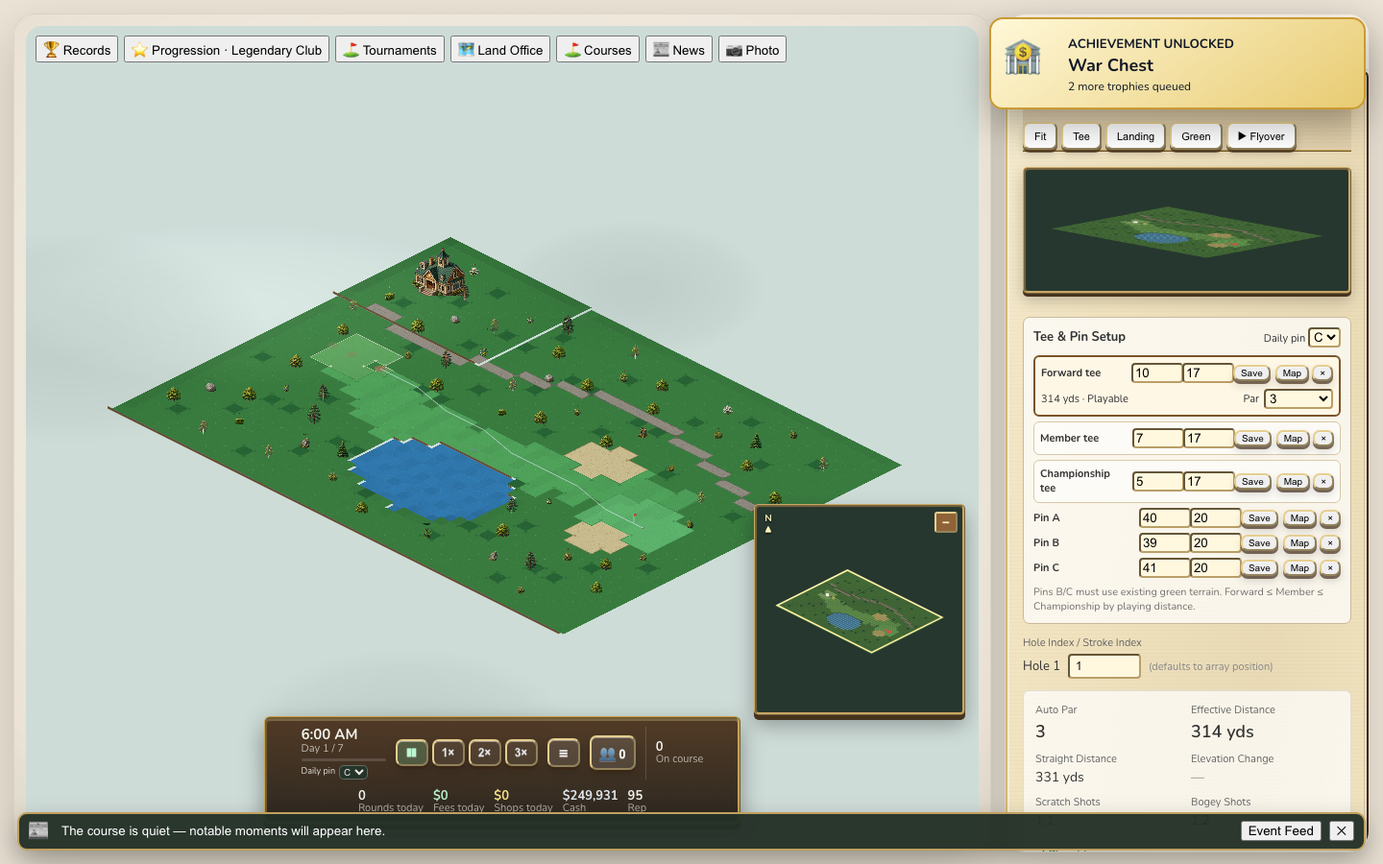
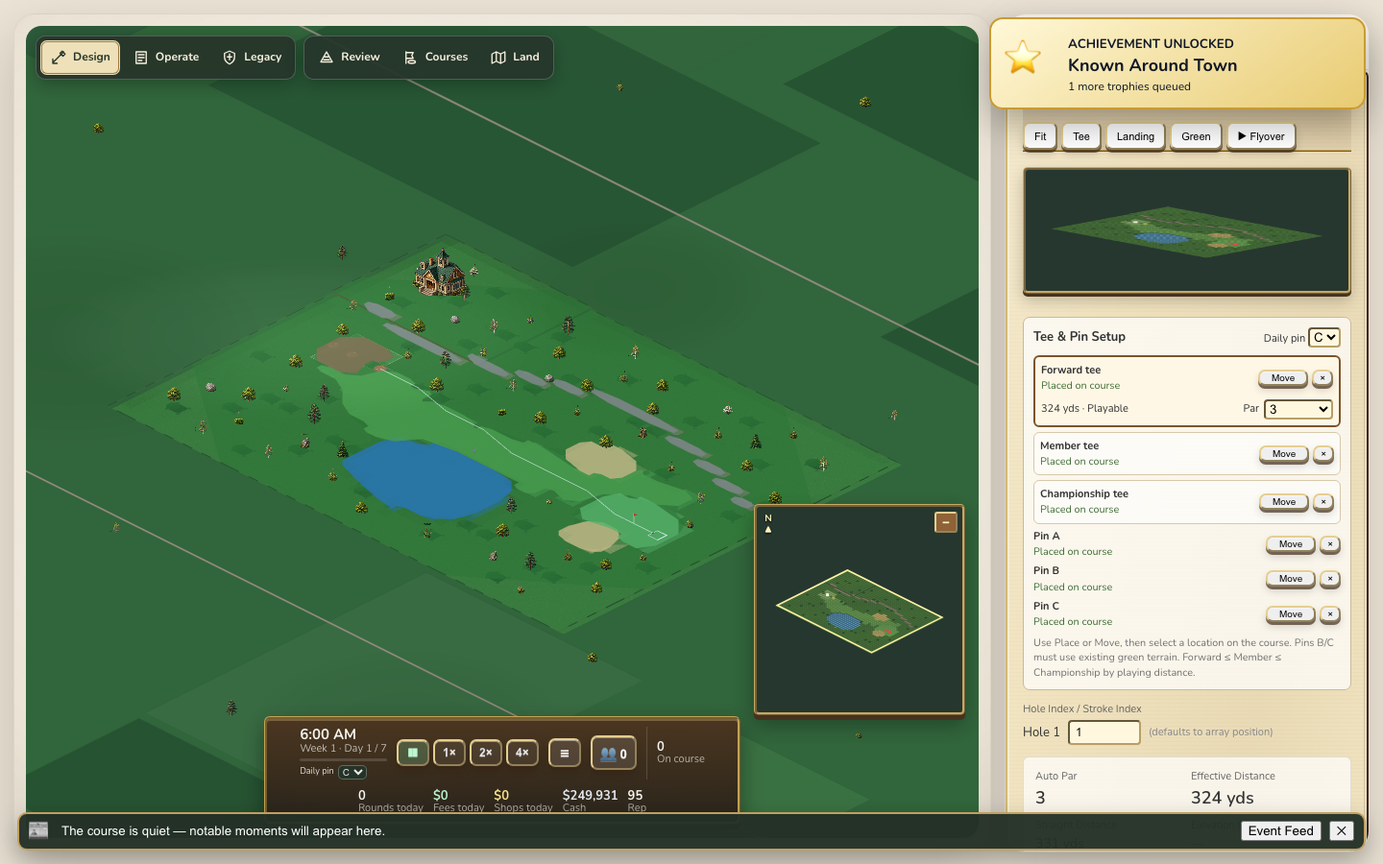
Replace coordinate tee and pin placement

diff --git a/simgolf-lite/src/App.tsx b/simgolf-lite/src/App.tsx
@@ -81,7 +81,7 @@ import { PauseOverlay } from "./ui/appShell/PauseOverlay";
 import { LoadingCard } from "./ui/appShell/LoadingCard";
 import { SettingsModal } from "./ui/SettingsModal";
 import { LIVE, type SpeedName } from "./game/live/liveConfig";
-import { courseForCourseSetup, getParSetting, getTeeBox, TEE_SETS, validateHoleCourseSetup, withNormalizedHoleSetup } from "./game/models/courseSetup";
+import { courseForCourseSetup, getParSetting, getPinPosition, getTeeBox, TEE_SETS, validateHoleCourseSetup, withNormalizedHoleSetup } from "./game/models/courseSetup";
 import { eventMatchesBinding } from "./accessibility/keybindings";
 import { T } from "./i18n/T";
 import { ambientMixFor, distanceVolume, musicContextFor } from "./audio/environment";
@@ -2231,7 +2231,18 @@ export default function App() {
           editingLocked: playerRoundLocksEditing,
         } : null,
       },
-      editor: { mode: editorMode, selectedTerrain: selected, selectedDecoration: decorationKind, decorationRotation, decorationSpan, decorationAction, activeHole: activeHoleIndex + 1, selectedTeeSet, teePlacementPending: pendingTeePlacement ? { teeSet: pendingTeePlacement.teeSet, point: pendingTeePlacement.point, netCost: pendingTeePlacement.netCost } : null },
+      editor: {
+        mode: editorMode,
+        selectedTerrain: selected,
+        selectedDecoration: decorationKind,
+        decorationRotation,
+        decorationSpan,
+        decorationAction,
+        activeHole: activeHoleIndex + 1,
+        selectedTeeSet,
+        setupPlacement: setupPlacement ? { kind: setupPlacement.kind, key: setupPlacement.key } : null,
+        teePlacementPending: pendingTeePlacement ? { teeSet: pendingTeePlacement.teeSet, point: pendingTeePlacement.point, netCost: pendingTeePlacement.netCost } : null,
+      },
       graphics: { quality: appProfile.graphics.quality, resolvedQuality: resolvedGraphicsQuality, animations: effectiveAnimations, waterAnimation: effectiveAnimations && appProfile.graphics.waterAnimation, treeSway: effectiveAnimations && appProfile.graphics.treeSway },
       retention: { photoMode, recordsOpen: showRetention, achievementsEarned: appProfile.achievements.earned.length, totalRounds: records.totalRounds, aces: records.aces.length, tickerVisible: appProfile.gameplay.tickerVisible },
       tournament: {
@@ -2250,7 +2261,7 @@ export default function App() {
       if (window.render_game_to_text === renderText) delete window.render_game_to_text;
       if (window.advanceTime === live.advanceTime) delete window.advanceTime;
     };
-  }, [activeHoleIndex, activeLayout.id, activeOperatingCourse, activePlayerRound, architectureReport, architectureReview, appProfile.achievements.earned.length, appProfile.gameplay.tickerVisible, appProfile.graphics.quality, appProfile.graphics.treeSway, appProfile.graphics.waterAnimation, audioCameraCenter, course, decorationAction, decorationKind, decorationRotation, decorationSpan, editorMode, effectiveAnimations, flow.base, flow.modal, flow.paused, followSelected, live, minimapView, pendingTeePlacement, pendingWeekReport, photoMode, playerPro, playerRoundLocksEditing, playerShotAim, records, resolvedGraphicsQuality, screen, selected, selectedParcelId, selectedTeeSet, showArchitectureReview, showCampaign, showCourseManager, showLandOffice, showLivingClub, showLiveOverview, showPlayerPro, showProgression, showPropertyManagement, showRetention, showSeasonsLegacy, showTournaments, tutorialProgress?.stepIndex, viewMode, workspace, world]);
+  }, [activeHoleIndex, activeLayout.id, activeOperatingCourse, activePlayerRound, architectureReport, architectureReview, appProfile.achievements.earned.length, appProfile.gameplay.tickerVisible, appProfile.graphics.quality, appProfile.graphics.treeSway, appProfile.graphics.waterAnimation, audioCameraCenter, course, decorationAction, decorationKind, decorationRotation, decorationSpan, editorMode, effectiveAnimations, flow.base, flow.modal, flow.paused, followSelected, live, minimapView, pendingTeePlacement, pendingWeekReport, photoMode, playerPro, playerRoundLocksEditing, playerShotAim, records, resolvedGraphicsQuality, screen, selected, selectedParcelId, selectedTeeSet, setupPlacement, showArchitectureReview, showCampaign, showCourseManager, showLandOffice, showLivingClub, showLiveOverview, showPlayerPro, showProgression, showPropertyManagement, showRetention, showSeasonsLegacy, showTournaments, tutorialProgress?.stepIndex, viewMode, workspace, world]);
 
   useEffect(() => {
     if (import.meta.env.MODE !== "e2e") return;
@@ -2989,16 +3000,17 @@ export default function App() {
     return remove + place;
   }
 
-  function previewTeeBox(teeSet: TeeSet, point: Point) {
+  function previewTeeBox(teeSet: TeeSet, point: Point): boolean {
     const hole = course.holes[activeHoleIndex];
-    if (!hole) return;
+    if (!hole) return false;
     const prospective = withNormalizedHoleSetup({ ...hole, teeBoxes: { ...hole.teeBoxes, [teeSet]: point }, ...(teeSet === "member" ? { tee: point } : {}) });
     const issue = validateHoleCourseSetup(course, prospective).find((entry) => entry.code === "OUT_OF_BOUNDS" || entry.code === "DUPLICATE" || entry.code === "TEE_ORDER");
-    if (issue) { setPaintError(issue.message); return; }
+    if (issue) { setPaintError(issue.message); return false; }
     const netCost = teePlacementCost(activeHoleIndex, teeSet, point);
-    if (!Number.isFinite(netCost)) { setPaintError("Tee location is out of bounds."); return; }
+    if (!Number.isFinite(netCost)) { setPaintError("Tee location is out of bounds."); return false; }
     setPendingTeePlacement({ holeIndex: activeHoleIndex, teeSet, point, netCost });
     setPaintError(null);
+    return true;
   }
 
   function commitTeeBox(holeIndex: number, teeSet: TeeSet, point: Point, netCost: number) {
@@ -3045,16 +3057,17 @@ export default function App() {
     });
   }
 
-  function setPinPosition(pinRotation: PinRotation, point: Point) {
-    if (point.x < 0 || point.y < 0 || point.x >= course.width || point.y >= course.height) { setPaintError("Pin position is out of bounds."); return; }
-    if (course.tiles[point.y * course.width + point.x] !== "green") { setPaintError(`Pin ${pinRotation} must sit on existing green terrain.`); return; }
+  function setPinPosition(pinRotation: PinRotation, point: Point): boolean {
+    if (point.x < 0 || point.y < 0 || point.x >= course.width || point.y >= course.height) { setPaintError("Pin position is out of bounds."); return false; }
+    if (course.tiles[point.y * course.width + point.x] !== "green") { setPaintError(`Pin ${pinRotation} must sit on existing green terrain.`); return false; }
     const hole = course.holes[activeHoleIndex];
-    if (!hole) return;
+    if (!hole) return false;
     const prospective = withNormalizedHoleSetup({ ...hole, pinPositions: { ...hole.pinPositions, [pinRotation]: point }, ...(pinRotation === "A" ? { green: point } : {}) });
     const issue = validateHoleCourseSetup(course, prospective).find((entry) => entry.code === "DUPLICATE");
-    if (issue) { setPaintError(issue.message); return; }
+    if (issue) { setPaintError(issue.message); return false; }
     dispatch({ type: "SET_PIN_POSITION", holeIndex: activeHoleIndex, pinRotation, position: point });
     setPaintError(null);
+    return true;
   }
 
   function handleCanvasClick(x: number, y: number) {
@@ -3072,10 +3085,13 @@ export default function App() {
       return;
     }
     if (setupPlacement) {
-      if (setupPlacement.kind === "tee") previewTeeBox(setupPlacement.key, { x, y });
-      else setPinPosition(setupPlacement.key, { x, y });
-      setSetupPlacement(null);
-      if (setupPlacement.kind === "pin") void audio.playSfx("confirm");
+      const accepted = setupPlacement.kind === "tee"
+        ? previewTeeBox(setupPlacement.key, { x, y })
+        : setPinPosition(setupPlacement.key, { x, y });
+      if (accepted) {
+        setSetupPlacement(null);
+        if (setupPlacement.kind === "pin") void audio.playSfx("confirm");
+      }
       return;
     }
     
@@ -3893,7 +3909,7 @@ export default function App() {
                       enterHoleEditMode(teeSetupPrompt.holeIndex, teeSet);
                       setSetupPlacement({ kind: "tee", key: teeSet });
                       setEditorMode("HOLE_WIZARD");
-                      setPaintError(`Select the ${teeSet} tee location on the course.`);
+                      setPaintError(null);
                       setTeeSetupPrompt(null);
                     }}>{t("courseSetup.offerBuild", { tee: teeSet[0].toUpperCase() + teeSet.slice(1), cost: formatCurrency(Math.max(0, estimate)) })}</button>;
                   })}
@@ -3901,14 +3917,32 @@ export default function App() {
                 </div>
               </div>
             )}
+            {setupPlacement && !pendingTeePlacement && !tutorialProgress && (() => {
+              const hole = course.holes[activeHoleIndex];
+              const existing = setupPlacement.kind === "tee"
+                ? getTeeBox(hole, setupPlacement.key)
+                : getPinPosition(hole, setupPlacement.key);
+              const marker = setupPlacement.kind === "tee"
+                ? `${setupPlacement.key[0].toUpperCase()}${setupPlacement.key.slice(1)} ${t("courseSetup.tee")}`
+                : t("courseSetup.pin", { rotation: setupPlacement.key });
+              const action = t(existing ? "courseSetup.move" : "courseSetup.place");
+              return (
+                <div data-testid="setup-placement-prompt" role="dialog" aria-label={t("courseSetup.placementAria")} className="cc-tycoon-panel" style={{ position: "absolute", zIndex: 150, bottom: 88, left: "50%", transform: "translateX(-50%)", width: 320, padding: 14 }}>
+                  <strong>{t("courseSetup.placementTitle", { action, marker })}</strong>
+                  <p style={{ margin: "6px 0 10px", fontSize: 12 }}>{t("courseSetup.placementHelp")}</p>
+                  {paintError && <div role="alert" style={{ color: "#8b2e1b", fontSize: 12, marginBottom: 8 }}>{paintError}</div>}
+                  <button onClick={() => { setSetupPlacement(null); setPaintError(null); }}>{t("courseSetup.cancelPlacement")}</button>
+                </div>
+              );
+            })()}
             {pendingTeePlacement && !tutorialProgress && (
               <div data-testid="tee-placement-confirm" role="dialog" aria-label={t("courseSetup.confirmAria")} className="cc-tycoon-panel" style={{ position: "absolute", zIndex: 150, bottom: 88, left: "50%", transform: "translateX(-50%)", width: 300, padding: 14 }}>
                 <strong>{t("courseSetup.confirmTitle", { action: t(getTeeBox(course.holes[pendingTeePlacement.holeIndex], pendingTeePlacement.teeSet) ? "courseSetup.actionMove" : "courseSetup.actionErect"), tee: pendingTeePlacement.teeSet })}</strong>
-                <div style={{ margin: "7px 0", fontSize: 12 }}>{pendingTeePlacement.netCost >= 0 ? t("courseSetup.tileCost", { x: pendingTeePlacement.point.x, y: pendingTeePlacement.point.y, cost: formatCurrency(pendingTeePlacement.netCost) }) : t("courseSetup.tileSalvage", { x: pendingTeePlacement.point.x, y: pendingTeePlacement.point.y, value: formatCurrency(-pendingTeePlacement.netCost) })}</div>
+                <div style={{ margin: "7px 0", fontSize: 12 }}>{pendingTeePlacement.netCost >= 0 ? t("courseSetup.placementCost", { cost: formatCurrency(pendingTeePlacement.netCost) }) : t("courseSetup.placementSalvage", { value: formatCurrency(-pendingTeePlacement.netCost) })}</div>
                 {pendingTeePlacement.netCost > world.cash && <div role="alert" style={{ color: "#8b2e1b", fontSize: 12, marginBottom: 7 }}>{t("courseSetup.shortfall", { amount: formatCurrency(pendingTeePlacement.netCost - world.cash) })}</div>}
                 <div style={{ display: "flex", gap: 6 }}>
                   <button disabled={pendingTeePlacement.netCost > world.cash} onClick={() => commitTeeBox(pendingTeePlacement.holeIndex, pendingTeePlacement.teeSet, pendingTeePlacement.point, pendingTeePlacement.netCost)}>{t("courseSetup.confirm")}</button>
-                  <button onClick={() => { setSetupPlacement({ kind: "tee", key: pendingTeePlacement.teeSet }); setPendingTeePlacement(null); setPaintError("Select another tee location on the course."); }}>{t("courseSetup.chooseAnother")}</button>
+                  <button onClick={() => { setSetupPlacement({ kind: "tee", key: pendingTeePlacement.teeSet }); setPendingTeePlacement(null); setPaintError(null); }}>{t("courseSetup.chooseAnother")}</button>
                   <button onClick={() => { setPendingTeePlacement(null); setPaintError(null); }}>{t("courseSetup.cancel")}</button>
                 </div>
               </div>
@@ -4043,13 +4077,11 @@ export default function App() {
                   setSelected={setSelected}
                   obstacleType={obstacleType}
                   setObstacleType={setObstacleType}
-                  onBeginTeePlacement={(teeSet) => { setSetupPlacement({ kind: "tee", key: teeSet }); setEditorMode("HOLE_WIZARD"); setPaintError(`Select the ${teeSet} tee location on the course.`); }}
-                  onBeginPinPlacement={(pinRotation) => { setSetupPlacement({ kind: "pin", key: pinRotation }); setEditorMode("HOLE_WIZARD"); setPaintError(`Select Pin ${pinRotation} on existing green terrain.`); }}
+                  onBeginTeePlacement={(teeSet) => { setSetupPlacement({ kind: "tee", key: teeSet }); setEditorMode("HOLE_WIZARD"); setPaintError(null); }}
+                  onBeginPinPlacement={(pinRotation) => { setSetupPlacement({ kind: "pin", key: pinRotation }); setEditorMode("HOLE_WIZARD"); setPaintError(null); }}
                   selectedTeeSet={selectedTeeSet}
                   onSelectTeeSet={setSelectedTeeSet}
-                  onSetTeeBox={previewTeeBox}
                   onSetTeePar={setTeePar}
-                  onSetPinPosition={setPinPosition}
                   onRemoveTeeBox={removeTeeBox}
                   onRemovePinPosition={(pinRotation) => dispatch({ type: "REMOVE_PIN_POSITION", holeIndex: activeHoleIndex, pinRotation })}
                   onSetActivePinRotation={(pinRotation) => dispatch({ type: "SET_ACTIVE_PIN_ROTATION", pinRotation })}

diff --git a/simgolf-lite/src/ui/HoleInspector.tsx b/simgolf-lite/src/ui/HoleInspector.tsx
@@ -1,11 +1,10 @@
 import type { HoleEvaluation } from "../game/eval/evaluateHole";
 import { formatCurrency } from "../i18n/format";
-import type { Course, Hole, ParSetting, PinRotation, Point, TeeSet, Terrain, ObstacleType } from "../game/models/types";
+import type { Course, Hole, ParSetting, PinRotation, TeeSet, Terrain, ObstacleType } from "../game/models/types";
 import { computeHoleTerrainStats, type TerrainComposition } from "../game/eval/terrainStats";
 import { T } from "../i18n/T";
 import { translateCurrent } from "../i18n/core";
 import type { ReactNode } from "react";
-import { useState } from "react";
 import { getParSetting, getPinPosition, getTeeBox, PIN_ROTATIONS, TEE_SETS, validateHoleCourseSetup } from "../game/models/courseSetup";
 
 interface HoleInspectorProps {
@@ -29,8 +28,6 @@ interface HoleInspectorProps {
   setObstacleType?: (type: ObstacleType) => void;
   onBeginTeePlacement?: (teeSet: TeeSet) => void;
   onBeginPinPlacement?: (pinRotation: PinRotation) => void;
-  onSetTeeBox?: (teeSet: TeeSet, point: Point) => void;
-  onSetPinPosition?: (pinRotation: PinRotation, point: Point) => void;
   onRemoveTeeBox?: (teeSet: TeeSet) => void;
   onRemovePinPosition?: (pinRotation: PinRotation) => void;
   onSetActivePinRotation?: (pinRotation: PinRotation) => void;
@@ -39,15 +36,26 @@ interface HoleInspectorProps {
   onSetTeePar?: (teeSet: TeeSet, setting: ParSetting) => void;
 }
 
-function MarkerRow(props: { label: string; point: Point | null; onPlace: () => void; onSave: (point: Point) => void; onRemove: () => void }) {
-  const [x, setX] = useState(props.point?.x ?? 0);
-  const [y, setY] = useState(props.point?.y ?? 0);
-  return <div style={{ display: "grid", gridTemplateColumns: "minmax(88px,1fr) 48px 48px auto auto", gap: 5, alignItems: "center" }}>
-    <strong style={{ fontSize: 11 }}>{props.label}</strong>
-    <input aria-label={translateCurrent("courseSetup.coordX", { marker: props.label })} type="number" value={x} onChange={(event) => setX(Number(event.target.value))} style={{ width: 46 }} />
-    <input aria-label={translateCurrent("courseSetup.coordY", { marker: props.label })} type="number" value={y} onChange={(event) => setY(Number(event.target.value))} style={{ width: 46 }} />
-    <button onClick={() => props.onSave({ x, y })} style={{ fontSize: 10 }}>{translateCurrent("courseSetup.save")}</button>
-    <span style={{ display: "flex", gap: 3 }}><button onClick={props.onPlace} style={{ fontSize: 10 }}>{translateCurrent("courseSetup.map")}</button>{props.point && <button aria-label={translateCurrent("courseSetup.remove", { marker: props.label })} onClick={props.onRemove} style={{ fontSize: 10 }}>×</button>}</span>
+function MarkerRow(props: { id: string; label: string; placed: boolean; onPlace: () => void; onRemove: () => void }) {
+  const action = translateCurrent(props.placed ? "courseSetup.move" : "courseSetup.place");
+  return <div style={{ display: "grid", gridTemplateColumns: "minmax(112px,1fr) auto", gap: 8, alignItems: "center" }}>
+    <span style={{ minWidth: 0 }}>
+      <strong style={{ display: "block", fontSize: 11 }}>{props.label}</strong>
+      <small style={{ display: "block", marginTop: 1, color: props.placed ? "#3f6d35" : "#746b5c" }}>
+        {translateCurrent(props.placed ? "courseSetup.placed" : "courseSetup.notPlaced")}
+      </small>
+    </span>
+    <span style={{ display: "flex", gap: 4 }}>
+      <button
+        data-testid={`place-${props.id}`}
+        aria-label={translateCurrent("courseSetup.markerActionAria", { action, marker: props.label })}
+        onClick={props.onPlace}
+        style={{ minWidth: 52, fontSize: 10 }}
+      >
+        {action}
+      </button>
+      {props.placed && <button aria-label={translateCurrent("courseSetup.remove", { marker: props.label })} onClick={props.onRemove} style={{ fontSize: 10 }}>×</button>}
+    </span>
   </div>;
 }
 
@@ -71,8 +79,6 @@ export function HoleInspector({
   setObstacleType,
   onBeginTeePlacement,
   onBeginPinPlacement,
-  onSetTeeBox,
-  onSetPinPosition,
   onRemoveTeeBox,
   onRemovePinPosition,
   onSetActivePinRotation,
@@ -217,7 +223,7 @@ export function HoleInspector({
             const point = getTeeBox(hole, teeSet);
             const selected = teeSet === selectedTeeSet;
             return <div key={`${teeSet}-${point?.x ?? "x"}-${point?.y ?? "y"}`} data-testid={`tee-row-${teeSet}`} style={{ padding: 6, borderRadius: 6, border: selected ? "2px solid #7b5429" : "1px solid #d7c8aa", background: selected ? "#fff7e6" : "rgba(255,255,255,.55)" }} onClick={() => onSelectTeeSet?.(teeSet)}>
-              <MarkerRow label={`${teeSet[0].toUpperCase() + teeSet.slice(1)} ${translateCurrent("courseSetup.tee")}`} point={point} onPlace={() => onBeginTeePlacement?.(teeSet)} onSave={(next) => onSetTeeBox?.(teeSet, next)} onRemove={() => onRemoveTeeBox?.(teeSet)} />
+              <MarkerRow id={`${teeSet}-tee`} label={`${teeSet[0].toUpperCase() + teeSet.slice(1)} ${translateCurrent("courseSetup.tee")}`} placed={!!point} onPlace={() => onBeginTeePlacement?.(teeSet)} onRemove={() => onRemoveTeeBox?.(teeSet)} />
               {selected && <div style={{ display: "flex", alignItems: "center", gap: 5, marginTop: 6, fontSize: 11 }}>
                 <span>{point ? translateCurrent("courseSetup.routeSummary", { yards: Math.round(effectiveDistanceYards), status: translateCurrent(isPlayable ? "courseSetup.playable" : "courseSetup.routeBlocked") }) : translateCurrent("courseSetup.notErected")}</span>
                 <span style={{ marginLeft: "auto" }}>{translateCurrent("courseSetup.par")}</span>
@@ -231,7 +237,7 @@ export function HoleInspector({
               </div>}
             </div>;
           })}
-          {PIN_ROTATIONS.map((pinRotation) => { const point = getPinPosition(hole, pinRotation); return <MarkerRow key={`${pinRotation}-${point?.x ?? "x"}-${point?.y ?? "y"}`} label={translateCurrent("courseSetup.pin", { rotation: pinRotation })} point={point} onPlace={() => onBeginPinPlacement?.(pinRotation)} onSave={(next) => onSetPinPosition?.(pinRotation, next)} onRemove={() => onRemovePinPosition?.(pinRotation)} />; })}
+          {PIN_ROTATIONS.map((pinRotation) => { const point = getPinPosition(hole, pinRotation); return <MarkerRow key={`${pinRotation}-${point?.x ?? "x"}-${point?.y ?? "y"}`} id={`pin-${pinRotation}`} label={translateCurrent("courseSetup.pin", { rotation: pinRotation })} placed={!!point} onPlace={() => onBeginPinPlacement?.(pinRotation)} onRemove={() => onRemovePinPosition?.(pinRotation)} />; })}
         </div>
         {setupIssues.length > 0 && <ul style={{ margin: "8px 0 0", paddingLeft: 18, color: "#8b2e1b", fontSize: 11 }}>{setupIssues.map((issue, index) => <li key={`${issue.code}-${index}`}>{issue.message}</li>)}</ul>}
         <small style={{ display: "block", marginTop: 7, opacity: .68 }}>{translateCurrent("courseSetup.help")}</small>

diff --git a/simgolf-lite/e2e/m23-course-standards.e2e.ts b/simgolf-lite/e2e/m23-course-standards.e2e.ts
@@ -1,5 +1,27 @@
 import { expect, test } from "@playwright/test";
 
+async function clickCourseTile(page: import("@playwright/test").Page, point: { x: number; y: number }, elevation = 1) {
+  await expect.poll(() => page.evaluate(() => JSON.parse(window.render_game_to_text?.() ?? "{}").camera?.zoom)).not.toBeNull();
+  const camera = await page.evaluate(() => JSON.parse(window.render_game_to_text?.() ?? "{}").camera);
+  if (camera.rotation !== 0 || typeof camera.zoom !== "number") throw new Error("M23 tile helper expects the fitted zero-degree camera");
+  const canvas = page.locator(".cc-pixi-stage canvas").first();
+  const box = await canvas.boundingBox();
+  if (!box) throw new Error("Course canvas has no bounds");
+  const project = (x: number, y: number, z = 0) => ({
+    x: (x - y) * 32,
+    y: (x + y) * 16 - z * 8,
+  });
+  const center = project(camera.center.x, camera.center.y);
+  const tile = project(point.x + 0.5, point.y + 0.5, elevation);
+  await canvas.click({
+    force: true,
+    position: {
+      x: box.width / 2 + (tile.x - center.x) * camera.zoom,
+      y: box.height / 2 + (tile.y - center.y) * camera.zoom,
+    },
+  });
+}
+
 test("M23 tee sets, pin rotations, ratings, editor, and daily operations", async ({ page }, testInfo) => {
   const errors: string[] = [];
   page.on("console", (message) => { if (message.type() === "error") errors.push(message.text()); });
@@ -12,8 +34,11 @@ test("M23 tee sets, pin rotations, ratings, editor, and daily operations", async
   expect(Object.keys(state.course.teeRatings)).toEqual(["forward", "member", "championship"]);
   expect(state.course.holeSetups[0].teeBoxes).toMatchObject({ forward: { x: 9 }, member: { x: 7 }, championship: { x: 5 } });
   await expect(page.getByRole("region", { name: "Tee and pin setup" })).toBeVisible();
-  await expect(page.getByLabel("Forward tee x")).toBeVisible();
-  await expect(page.getByLabel("Pin C x")).toBeVisible();
+  await expect(page.getByLabel("Forward tee x")).toHaveCount(0);
+  await expect(page.getByLabel("Pin C x")).toHaveCount(0);
+  await expect(page.getByRole("region", { name: "Tee and pin setup" }).locator('input[type="number"]')).toHaveCount(0);
+  await expect(page.getByRole("button", { name: "Move Forward tee on map" })).toBeVisible();
+  await expect(page.getByRole("button", { name: "Move Pin C on map" })).toBeVisible();
   await page.getByTestId("tee-row-forward").click();
   await page.getByTestId("tee-par-forward").selectOption("3");
   await expect.poll(() => page.evaluate(() => JSON.parse(window.render_game_to_text?.() ?? "{}").course?.holeSetups?.[0]?.parByTee?.forward)).toEqual({ mode: "MANUAL", par: 3 });
@@ -21,13 +46,24 @@ test("M23 tee sets, pin rotations, ratings, editor, and daily operations", async
   await page.getByTestId("daily-pin-rotation").selectOption("C");
   await expect.poll(() => page.evaluate(() => JSON.parse(window.render_game_to_text?.() ?? "{}").course?.activePinRotation)).toBe("C");
 
-  await page.getByLabel("Forward tee x").fill("10");
-  await page.getByLabel("Forward tee x").press("Tab");
-  await page.getByLabel("Forward tee y").press("Tab");
-  await page.keyboard.press("Enter");
+  await page.getByRole("button", { name: "Move Forward tee on map" }).click();
+  await expect(page.getByTestId("setup-placement-prompt")).toContainText("Move Forward tee on the course");
+  await expect.poll(() => page.evaluate(() => JSON.parse(window.render_game_to_text?.() ?? "{}").editor?.setupPlacement)).toEqual({ kind: "tee", key: "forward" });
+  await clickCourseTile(page, { x: 10, y: 17 });
   await expect(page.getByTestId("tee-placement-confirm")).toBeVisible();
+  await expect(page.getByTestId("tee-placement-confirm")).not.toContainText(/Tile \d/);
   await page.getByTestId("tee-placement-confirm").getByRole("button", { name: "Confirm" }).click();
   await expect.poll(() => page.evaluate(() => JSON.parse(window.render_game_to_text?.() ?? "{}").course?.holeSetups?.[0]?.teeBoxes?.forward?.x)).toBe(10);
+
+  await page.getByRole("button", { name: "Move Pin C on map" }).click();
+  await expect(page.getByTestId("setup-placement-prompt")).toContainText("Move Pin C on the course");
+  await clickCourseTile(page, { x: 32, y: 20 });
+  await expect(page.getByTestId("setup-placement-prompt").getByRole("alert")).toContainText("must sit on existing green terrain");
+  await expect.poll(() => page.evaluate(() => JSON.parse(window.render_game_to_text?.() ?? "{}").editor?.setupPlacement)).toEqual({ kind: "pin", key: "C" });
+  await page.screenshot({ path: "artifacts/zk-447-map-placement.png", fullPage: true });
+  await clickCourseTile(page, { x: 42, y: 20 });
+  await expect.poll(() => page.evaluate(() => JSON.parse(window.render_game_to_text?.() ?? "{}").course?.holeSetups?.[0]?.pinPositions?.C)).toEqual({ x: 42, y: 20 });
+  await expect(page.getByTestId("setup-placement-prompt")).toHaveCount(0);
 
   const screenshot = await page.screenshot({ path: "artifacts/m23-course-standards.png", fullPage: true });
   await testInfo.attach("course-standards", { body: screenshot, contentType: "image/png" });
@@ -42,6 +78,8 @@ test("offers optional point-and-click tee construction immediately after a hole"
   await page.getByTestId("offer-forward-tee").click();
   await expect.poll(() => page.evaluate(() => JSON.parse(window.render_game_to_text?.() ?? "{}").editor?.selectedTeeSet)).toBe("forward");
   await expect.poll(() => page.evaluate(() => JSON.parse(window.render_game_to_text?.() ?? "{}").editor?.mode)).toBe("HOLE_WIZARD");
+  await expect(page.getByTestId("setup-placement-prompt")).toContainText("Place Forward tee on the course");
   await page.keyboard.press("Escape");
+  await expect(page.getByTestId("setup-placement-prompt")).toBeHidden();
   await expect(page.getByTestId("tee-placement-confirm")).toBeHidden();
 });

diff --git a/simgolf-lite/src/i18n/catalog.ts b/simgolf-lite/src/i18n/catalog.ts
@@ -214,12 +214,13 @@ export const en = {
   "courseSetup.activePin": "Active daily pin rotation",
   "courseSetup.tee": "tee",
   "courseSetup.pin": "Pin {rotation}",
-  "courseSetup.coordX": "{marker} x",
-  "courseSetup.coordY": "{marker} y",
-  "courseSetup.save": "Save",
-  "courseSetup.map": "Map",
+  "courseSetup.place": "Place",
+  "courseSetup.move": "Move",
+  "courseSetup.placed": "Placed on course",
+  "courseSetup.notPlaced": "Not placed",
+  "courseSetup.markerActionAria": "{action} {marker} on map",
   "courseSetup.remove": "Remove {marker}",
-  "courseSetup.help": "Pins B/C must use existing green terrain. Forward ≤ Member ≤ Championship by playing distance.",
+  "courseSetup.help": "Use Place or Move, then select a location on the course. Pins B/C must use existing green terrain. Forward ≤ Member ≤ Championship by playing distance.",
   "courseSetup.golfer": "{tee} tees · Pin {pin}",
   "courseSetup.difficultyDelta": "setup Δ {delta}",
   "courseSetup.ratingMatrix": "Tee rating matrix",
@@ -238,11 +239,15 @@ export const en = {
   "courseSetup.confirmTitle": "{action} {tee} tee?",
   "courseSetup.actionErect": "Erect",
   "courseSetup.actionMove": "Move",
-  "courseSetup.tileCost": "Tile {x}, {y} · Cost {cost}",
-  "courseSetup.tileSalvage": "Tile {x}, {y} · Salvage {value}",
+  "courseSetup.placementAria": "Map marker placement",
+  "courseSetup.placementTitle": "{action} {marker} on the course",
+  "courseSetup.placementHelp": "Click or tap a valid location on the map. Press Esc to cancel.",
+  "courseSetup.placementCost": "Construction cost {cost}",
+  "courseSetup.placementSalvage": "Net salvage {value}",
   "courseSetup.shortfall": "Insufficient funds. Short by {amount}.",
   "courseSetup.confirm": "Confirm",
-  "courseSetup.chooseAnother": "Choose another tile",
+  "courseSetup.chooseAnother": "Choose another location",
+  "courseSetup.cancelPlacement": "Cancel placement",
   "courseSetup.cancel": "Cancel",
   "courseSetup.par": "Par",
   "courseSetup.teeParAria": "{tee} tee par",
